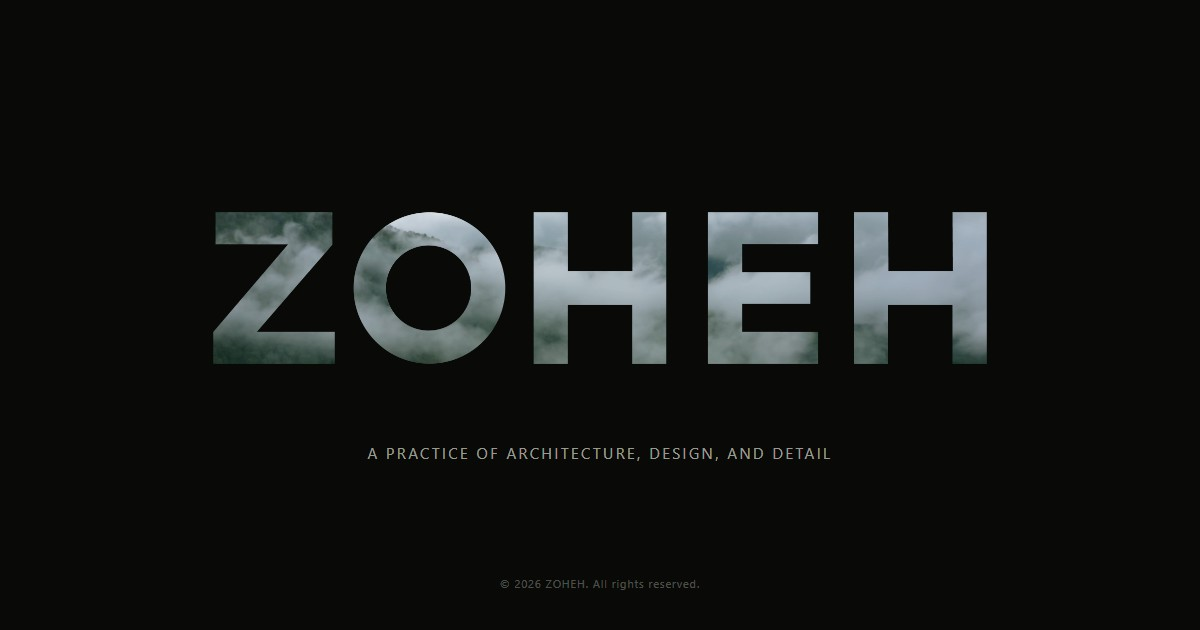
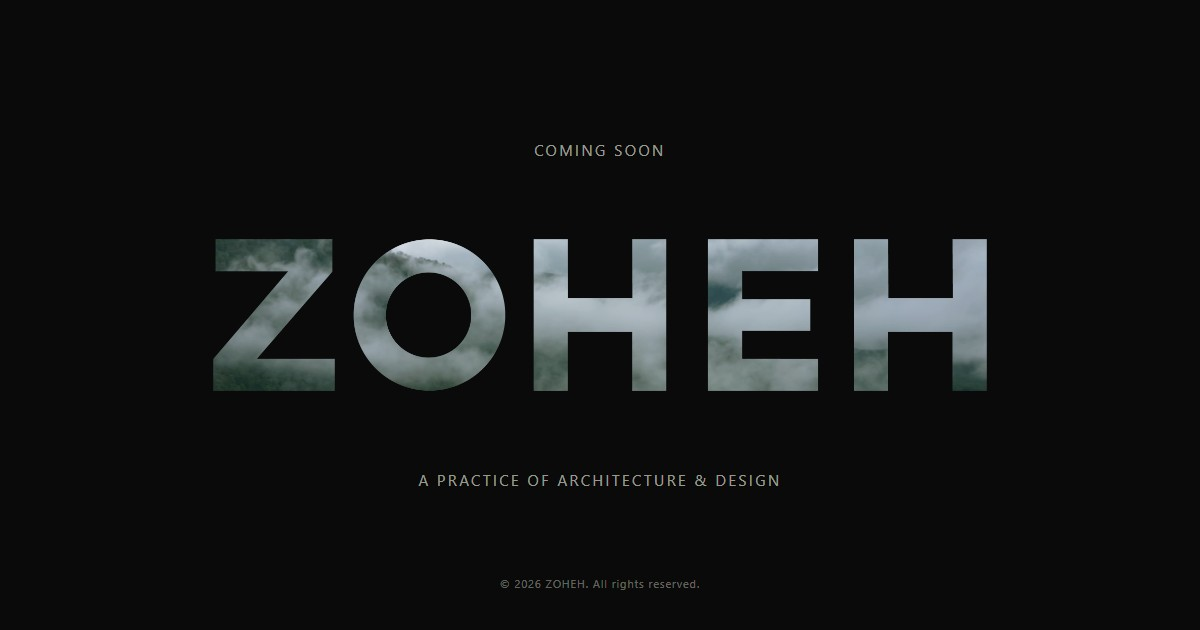
Update

diff --git a/index.html b/index.html
@@ -4,17 +4,17 @@
 	<meta charset="UTF-8">
 	<meta name="viewport" content="width=device-width, initial-scale=1.0, viewport-fit=cover">
 	<meta name="theme-color" content="#0a0a0a">
-	<meta name="description" content="ZOHEH — a practice of architecture, design, and detail. Coming soon.">
+	<meta name="description" content="ZOHEH — a practice of architecture & design. Coming soon.">
 	<meta property="og:type" content="website">
 	<meta property="og:title" content="ZOHEH | Coming Soon">
-	<meta property="og:description" content="A practice of architecture, design, and detail.">
+	<meta property="og:description" content="A practice of architecture & design.">
 	<!-- og:image is a relative path for now — once this is live on a real domain,
 	     change it to the absolute URL (https://yourdomain.com/images/og-preview.jpg)
 	     so it resolves correctly wherever the link is shared. -->
 	<meta property="og:image" content="images/og-preview.jpg">
 	<meta name="twitter:card" content="summary_large_image">
 	<meta name="twitter:title" content="ZOHEH | Coming Soon">
-	<meta name="twitter:description" content="A practice of architecture, design, and detail.">
+	<meta name="twitter:description" content="A practice of architecture & design.">
 	<meta name="twitter:image" content="images/og-preview.jpg">
 	<link rel="icon" type="image/png" href="images/icon.png">
 	<link rel="apple-touch-icon" href="images/icon.png">
@@ -53,7 +53,7 @@
 				<div class="reel-vignette"></div>
 			</div>
 		</div>
-		<p class="tagline">A practice of architecture, design, and detail</p>
+		<p class="tagline">A practice of architecture &amp; design</p>
 		<p class="footer-credit">&copy; 2026 ZOHEH. All rights reserved.</p>
 	</main>
 	<script src="script.js" defer></script>
